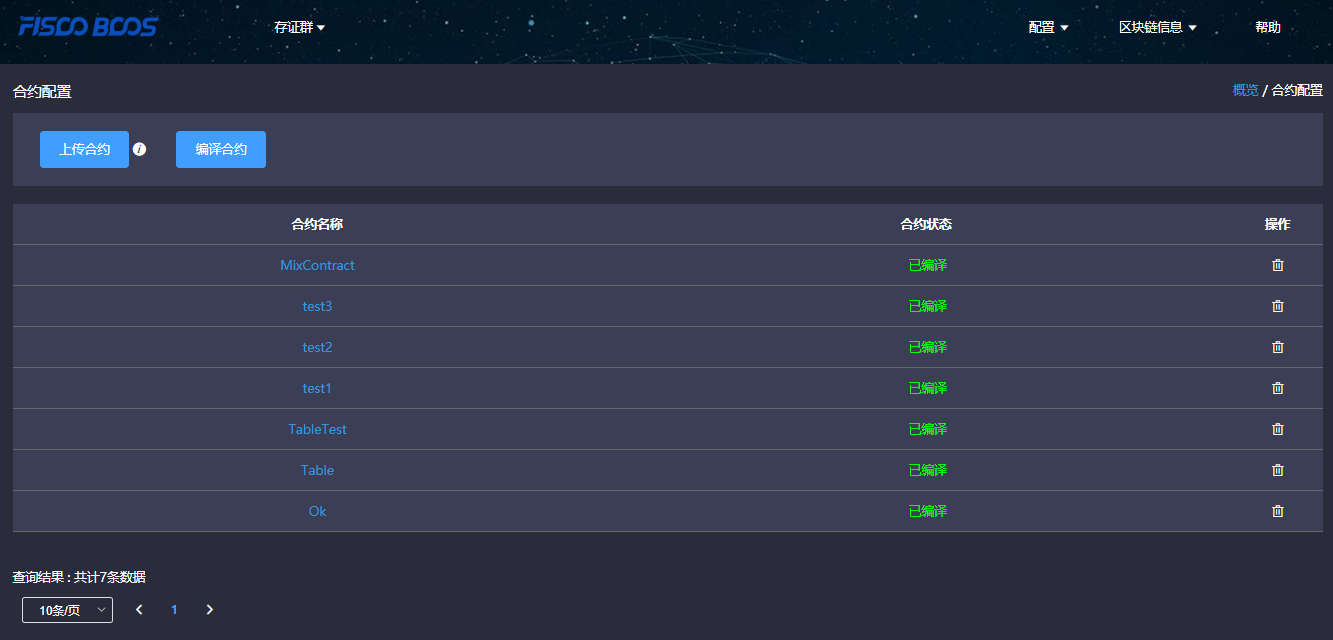
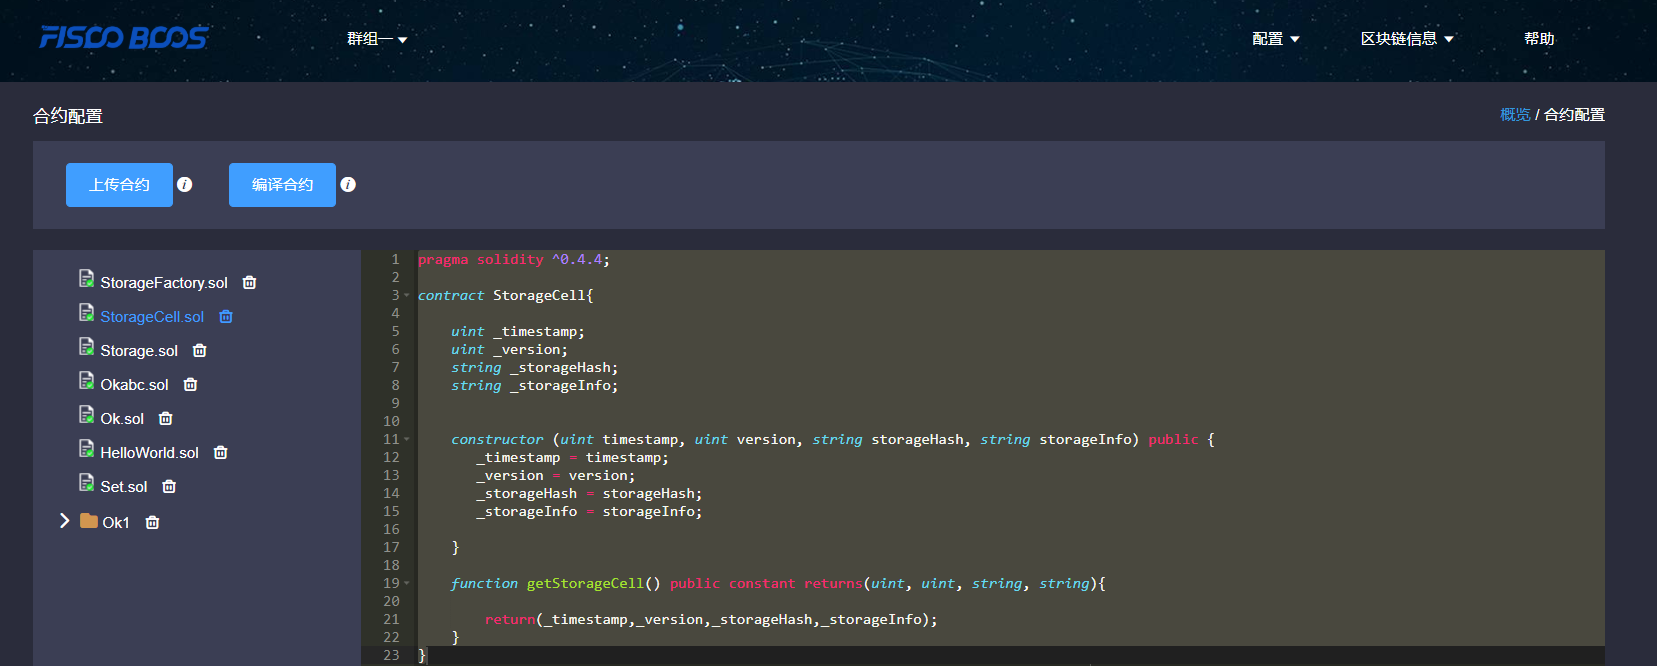
update

diff --git a/README.md b/README.md
@@ -64,7 +64,7 @@
 
 服务搭建成功后，可使用网页浏览器访问nginx配置的前端IP和前端端口，进入到浏览器页面。未初始化群组的浏览器页面会引导大家到新建群组配置页面，新建群组需要配置群组ID，群组名称，描述。
 
-**群组ID需要和区块链群组ID保持一致。**
+**群组ID需要和区块链群组ID保持一致。**群组ID有多种查看方式，1、[rpc接口获取](https://fisco-bcos-documentation.readthedocs.io/zh_CN/release-2.0/docs/api.html#getgrouplist)。2、[控制台命令](https://fisco-bcos-documentation.readthedocs.io/zh_CN/release-2.0/docs/manual/console.html)。
 
 群组名称是为群组ID取的一个有意义，便于理解的名字。
 
@@ -76,13 +76,18 @@
 
 添加群组所在的节点信息，用于区块链浏览器连接拉取相关展示信息。节点的rpc端口信息和p2p端口信息可以从节点的 **config.ini**配置文件中获取。
 
+为了使用方便，新添加的群组会自动同步添加其他群组已经配置的共用节点信息。
+
 ### 3.3、添加合约
 
-本浏览器版本提供合约解析的功能。此功能需要用户把本群组使用的所有合约进行导入。
+本浏览器版本提供合约解析的功能。此功能需要用户把本群组使用的所有合约进行导入。本版本支持用zip包上传一级目录，用于解决同名合约的问题。
 
 导入步骤：
 
 #### 3.3.1 上传合约
+
+1. 合约上传支持sol文件上传和将sol文件打包成zip包上传。
+2. zip包最多支持一级目录，如果没有目录默认上传到根目录。zip包中只能有sol文件。
 
 #### 3.3.2 编译合约
 
